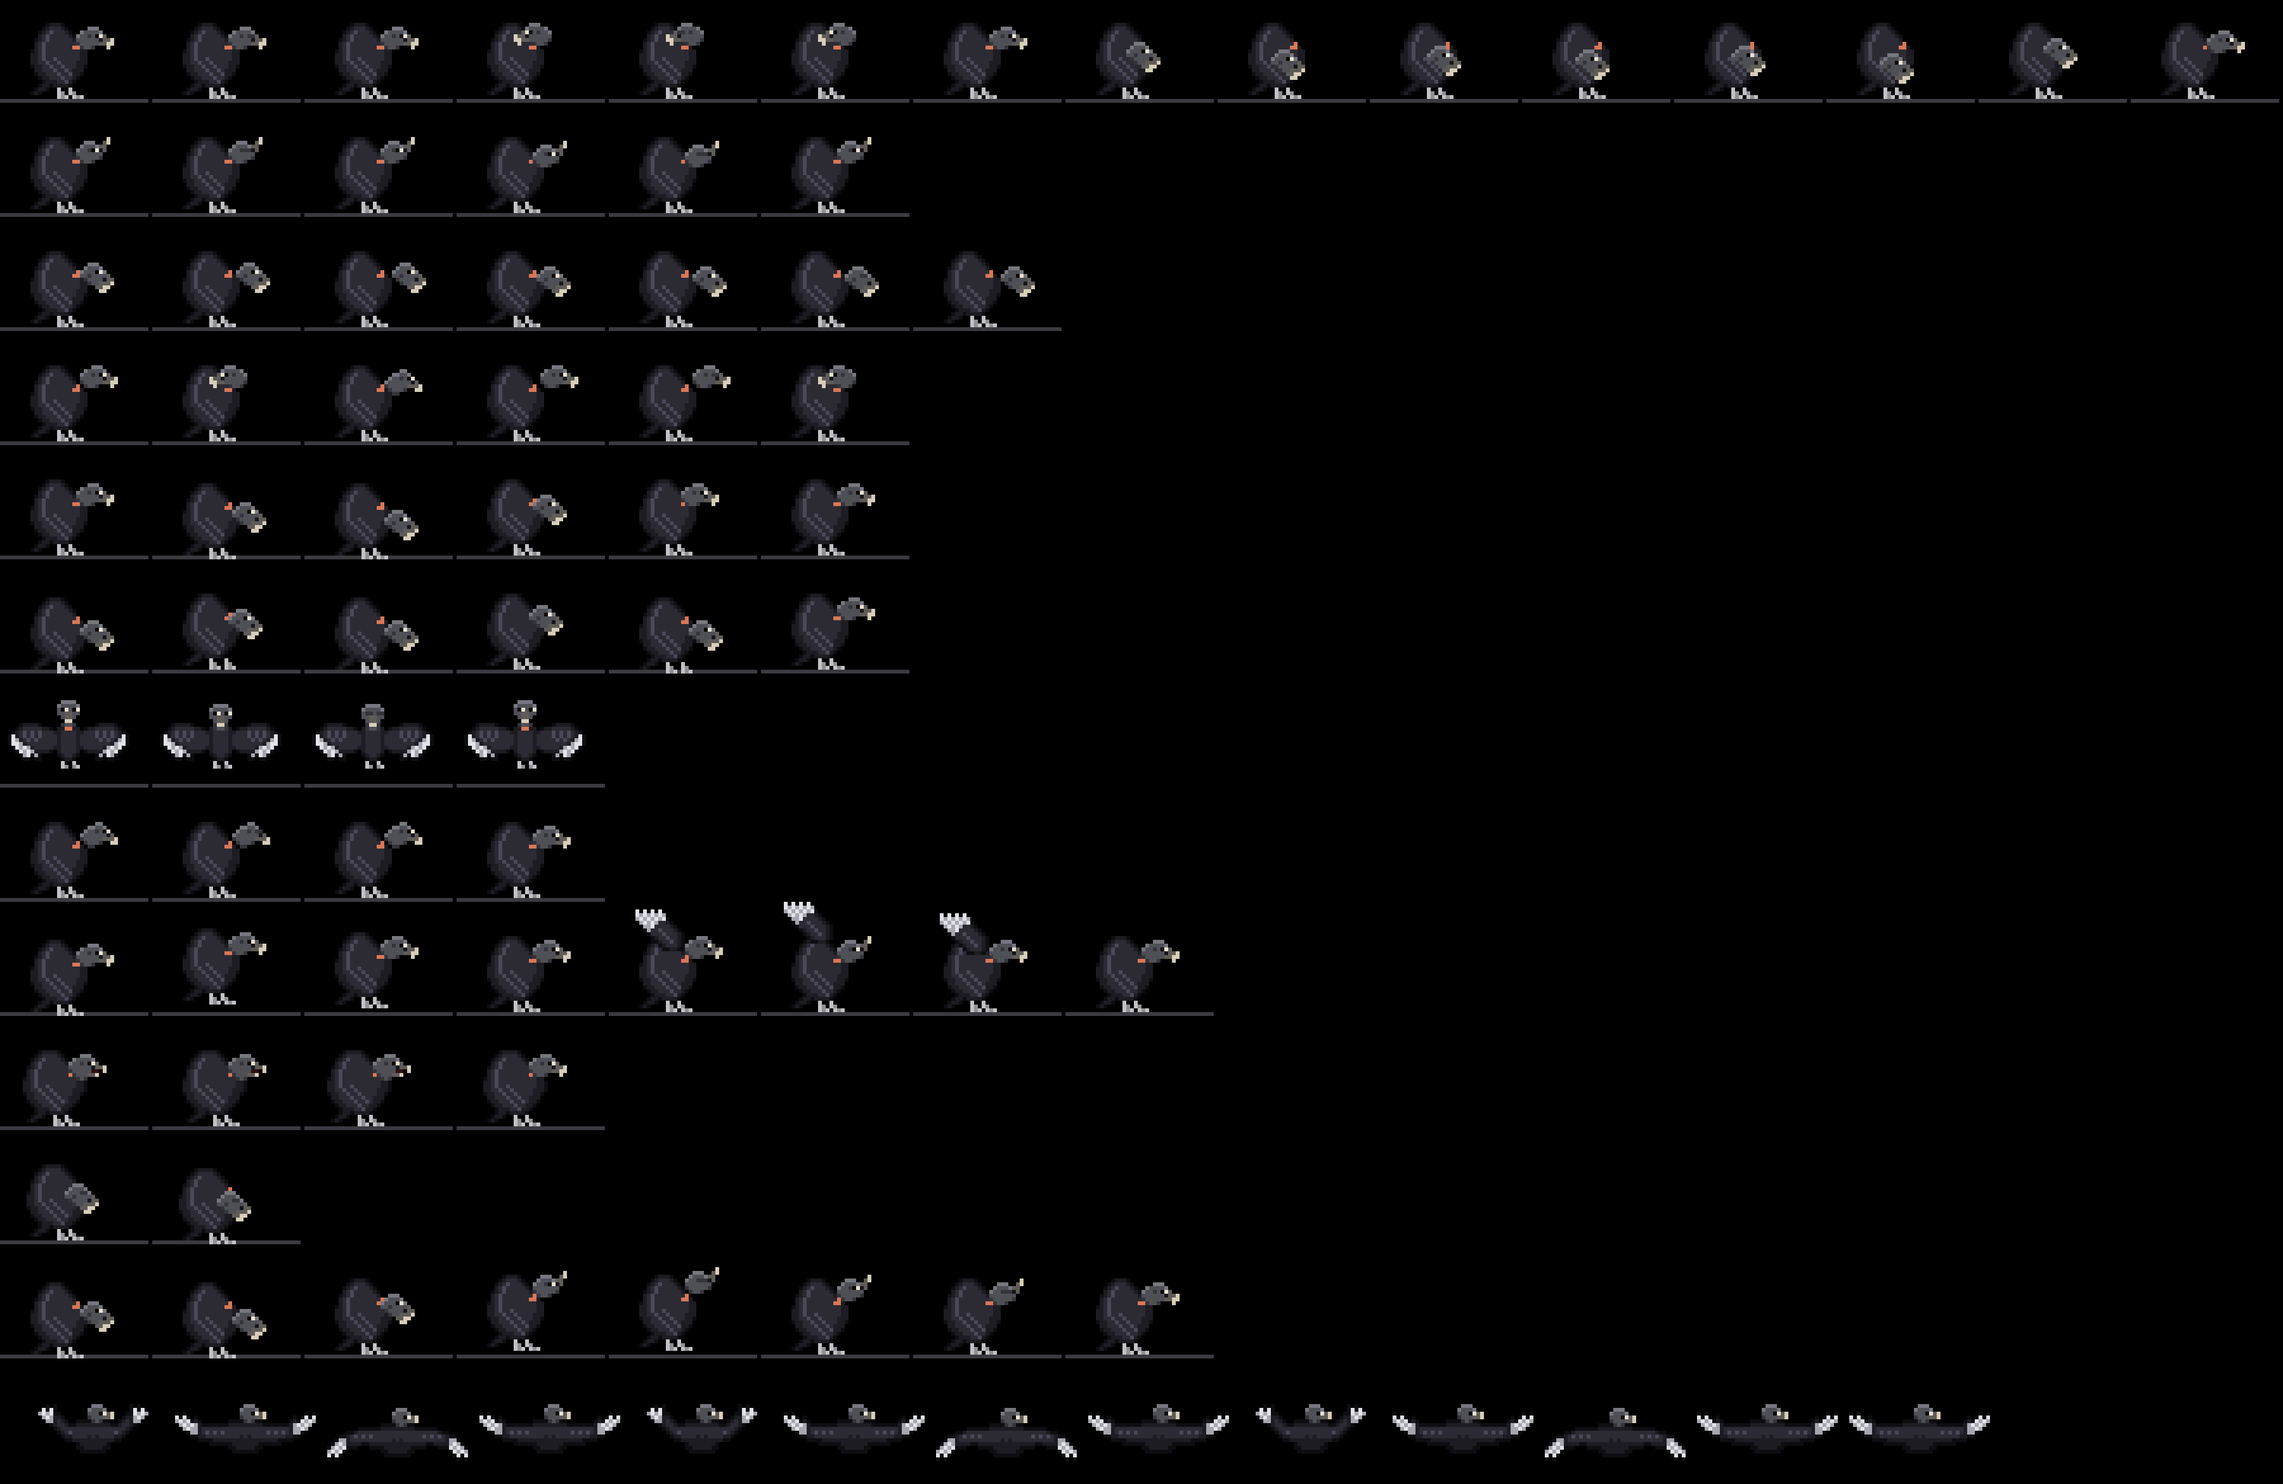
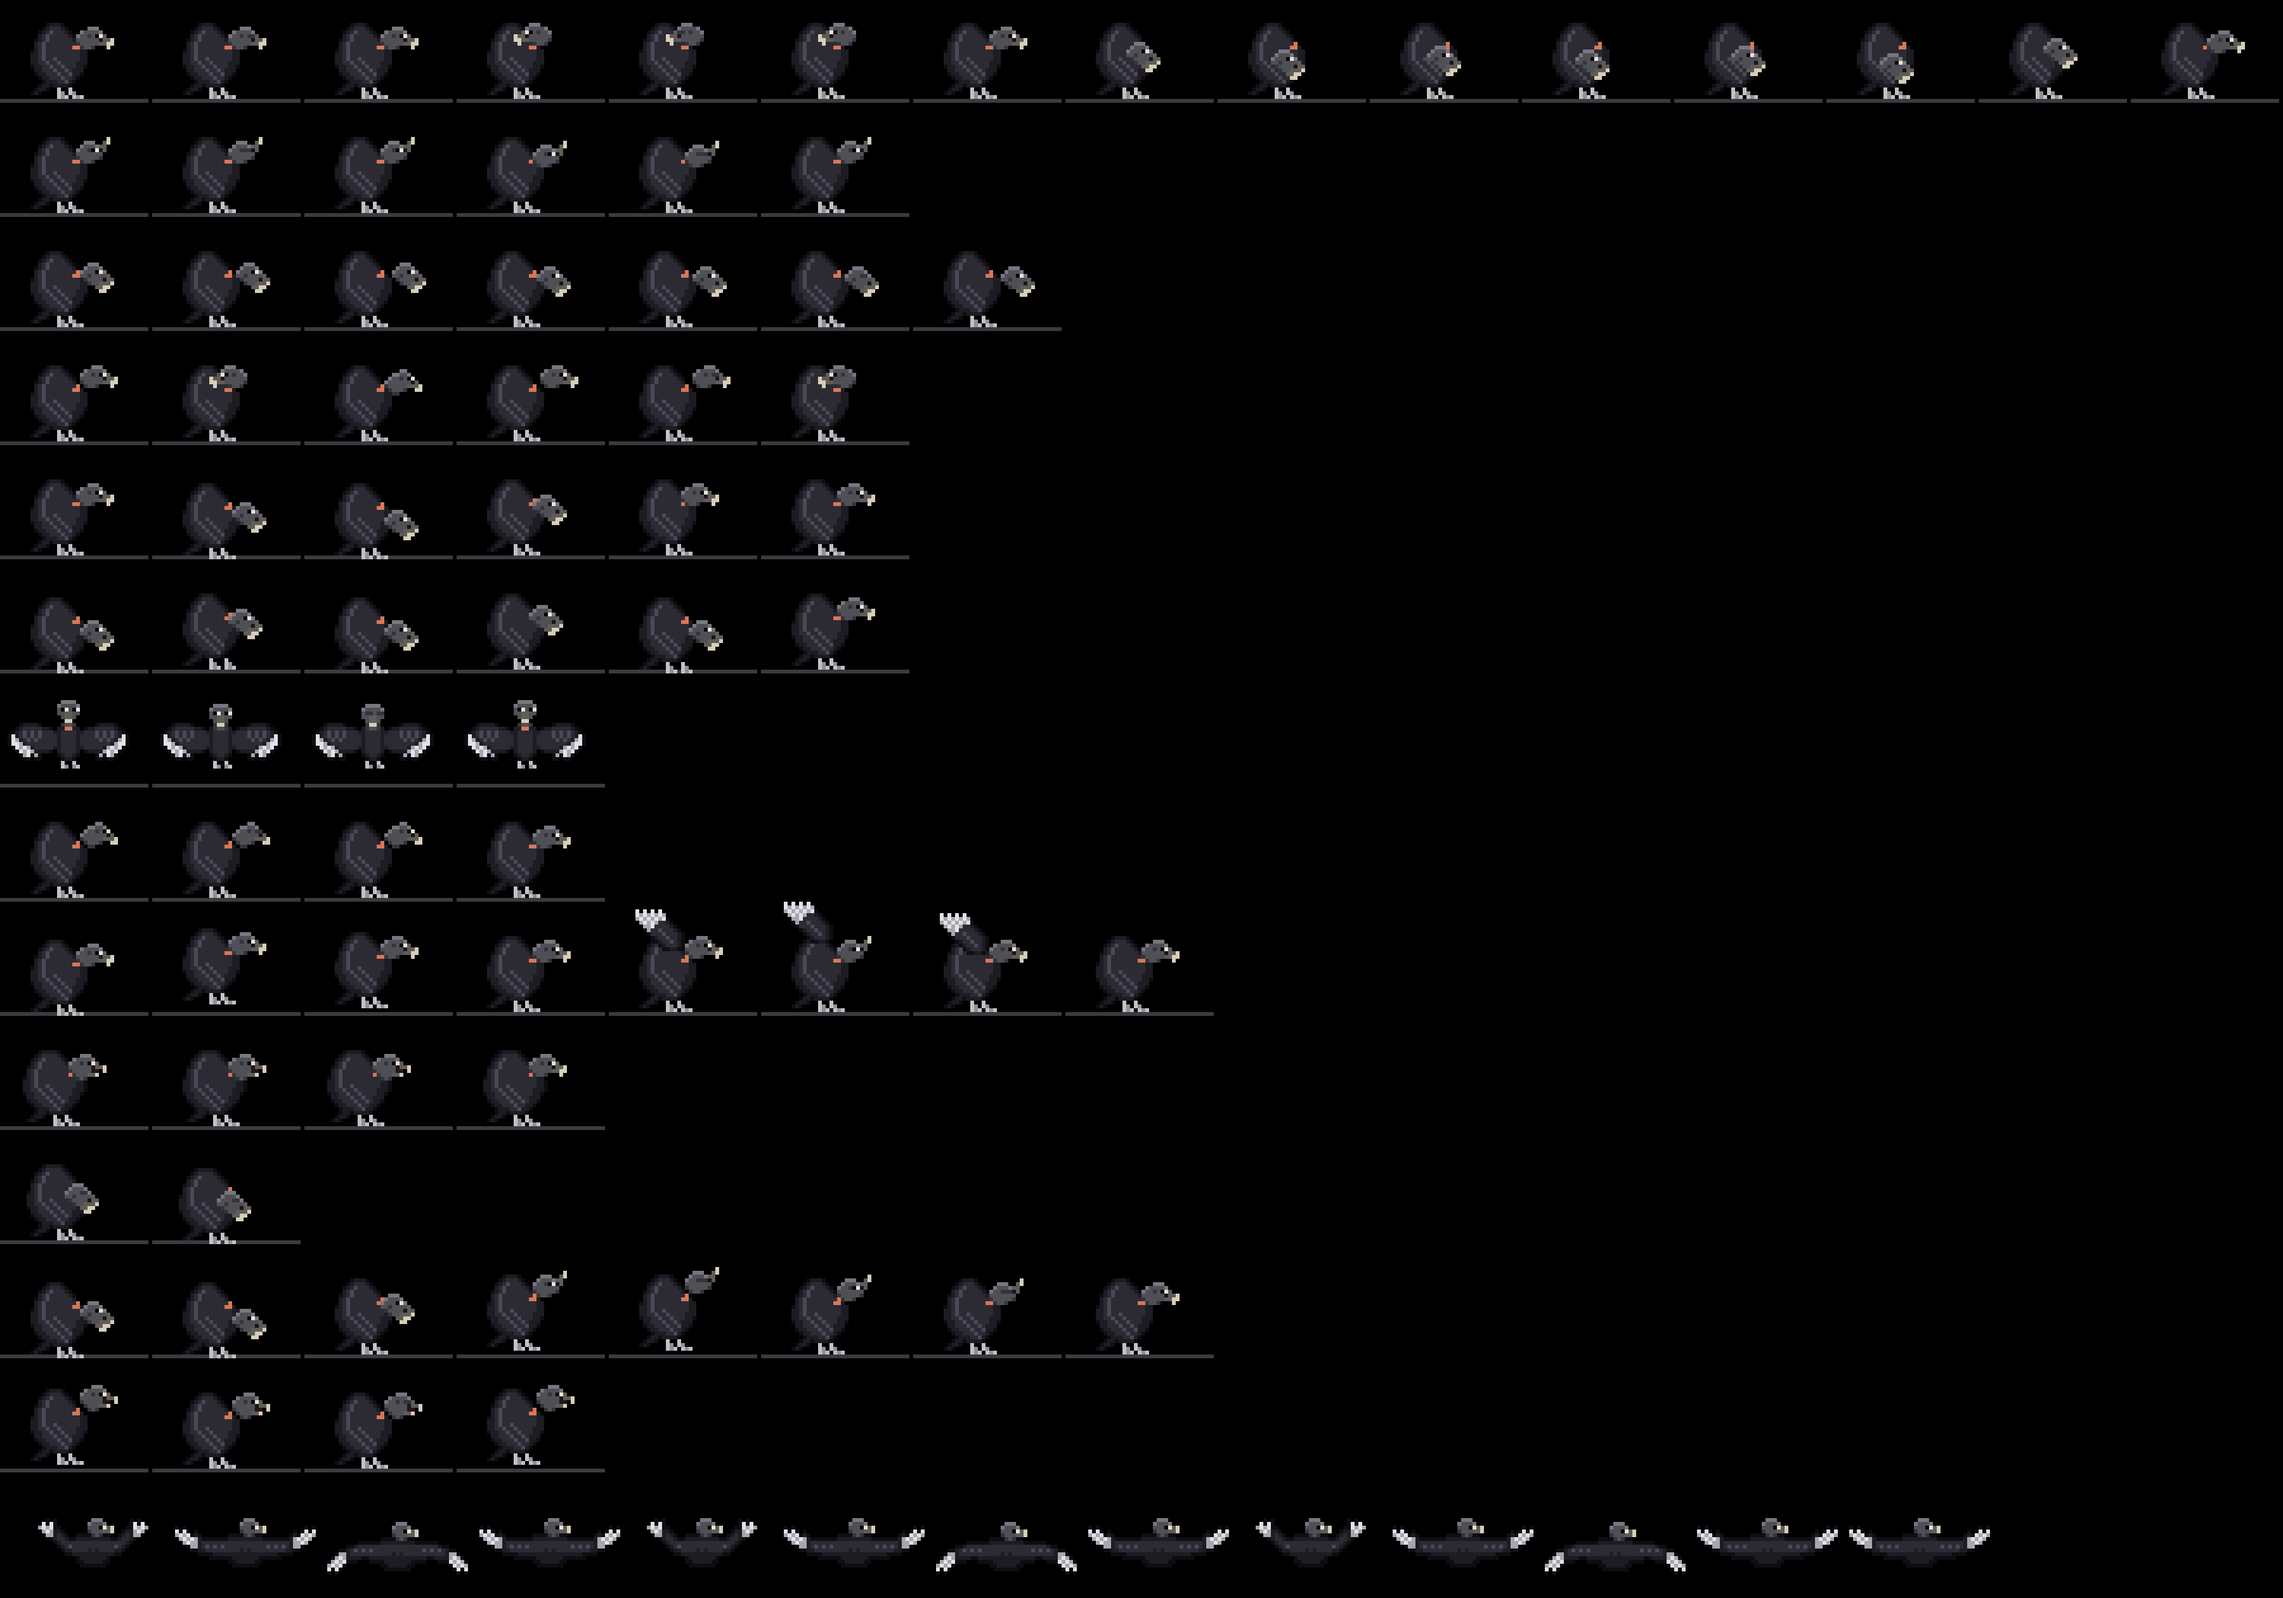
feat(sprites): a gape clip for a file dragged over Zeca
Head up and bill open, waiting for what is about to be dropped in, with
a blink between: the open bill of the threat pose, held up instead of
forward. Generated from design/mascots/zeca/zeca.py like every clip.

diff --git a/tests/visual/island.spec.ts b/tests/visual/island.spec.ts
@@ -2,7 +2,7 @@ import { expect, test } from "@playwright/test";
 
 /** The lab's island states, by index (see ui/lab/lab.ts). */
 const STATES = ["working", "searching", "web", "approval", "done-with-alerts", "chat"];
-const CLIPS = ["idle", "think", "read", "search", "edit", "run", "approval", "question", "done", "fail", "sleep", "swallow", "fly"];
+const CLIPS = ["idle", "think", "read", "search", "edit", "run", "approval", "question", "done", "fail", "sleep", "swallow", "gape", "fly"];
 
 const lab = (params: string) => `/lab/?still=1&t=1500&${params}`;
 /** States the island announces only once they hold (render.ts SETTLE_MS). */

diff --git a/design/mascots/zeca/zeca.py b/design/mascots/zeca/zeca.py
@@ -315,6 +315,11 @@ CLIPS = {
     f(140, perch("head_up:blink", hy=-3, dy=-1)), f(140, perch("head_up", hy=-2)),
     f(140, perch("head_up:blink", hy=-1)), f(500, perch("head")),
   ]},
+  # Gape: something is being dragged over him. Head up, bill open, waiting for it to drop in.
+  "gape": {"loop": True, "frames": [
+    f(500, perch("head_hiss", hx=1, hy=-2, dy=-1)), f(400, perch("head_hiss", hx=1, hy=-1)),
+    f(120, perch("head_hiss:blink", hx=1, hy=-1)), f(500, perch("head_hiss", hx=1, hy=-2, dy=-1)),
+  ]},
   # Flight: three quick stiff flaps (up, level, down, level), then a short flat glide.
   "fly": {"loop": True, "frames": [
     *[fr for _ in range(3) for fr in (

diff --git a/docs/ANIMATIONS.md b/docs/ANIMATIONS.md
@@ -39,6 +39,7 @@ real black vulture does, so the bird reads as a vulture before it reads as a sta
 | `fail` | fail | Feathers up, a hiss, a shake |
 | `sleep` | sleep | Fluffed up, head tucked |
 | `swallow` | a file dropped on him | Down to the wire, pick it up, toss the head back and gulp |
+| `gape` | a file dragged over the island | Head up, bill open, waiting for it to drop in |
 | `fly` | web | A full sortie: take off, flap-flap-flap-glide out, glide home, flare, land, turn |
 
 The `idle` clip includes a preening bout (head into the wing, quick nibbles), and `done` ends with
